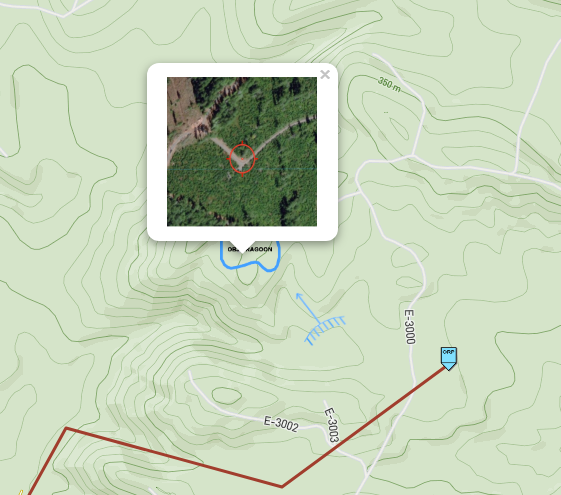
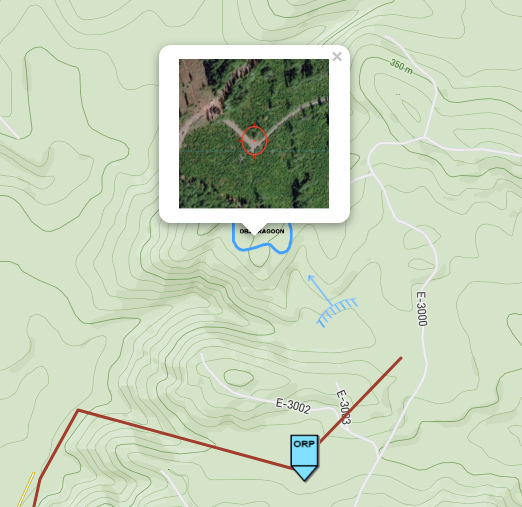
pushing live

diff --git a/OPORD1/scripts.js b/OPORD1/scripts.js
@@ -43,7 +43,7 @@ var ambush = L.divIcon({className: 'ambush',iconAnchor: [-20,0]});
 L.marker([ 46.87109, -123.19171 ], {icon: ambush}).addTo(mymap);
 
 //ORP Symbol
-var orp = L.divIcon({className: 'orp',iconAnchor: [5,20]});
+var orp = L.divIcon({className: 'orp',iconAnchor: [5,35]});
 // you can set .my-div-icon styles in CSS
 L.marker([ 46.8653689, -123.1913763 ], {icon: orp}).addTo(mymap);
 

diff --git a/OPORD1/styles.css b/OPORD1/styles.css
@@ -83,8 +83,8 @@
 .orp {
   background-image: url(https://github.com/vanmeciv/OPORDS/blob/master/OPORD1/ORP.PNG?raw=true);
   background-repeat: no-repeat;
-  background-size: 18px 25px;
-  padding-top: 220px;
+  background-size: 32px 50px;
+  padding-top: 40px;
   padding-right: 50px;
 }
 
